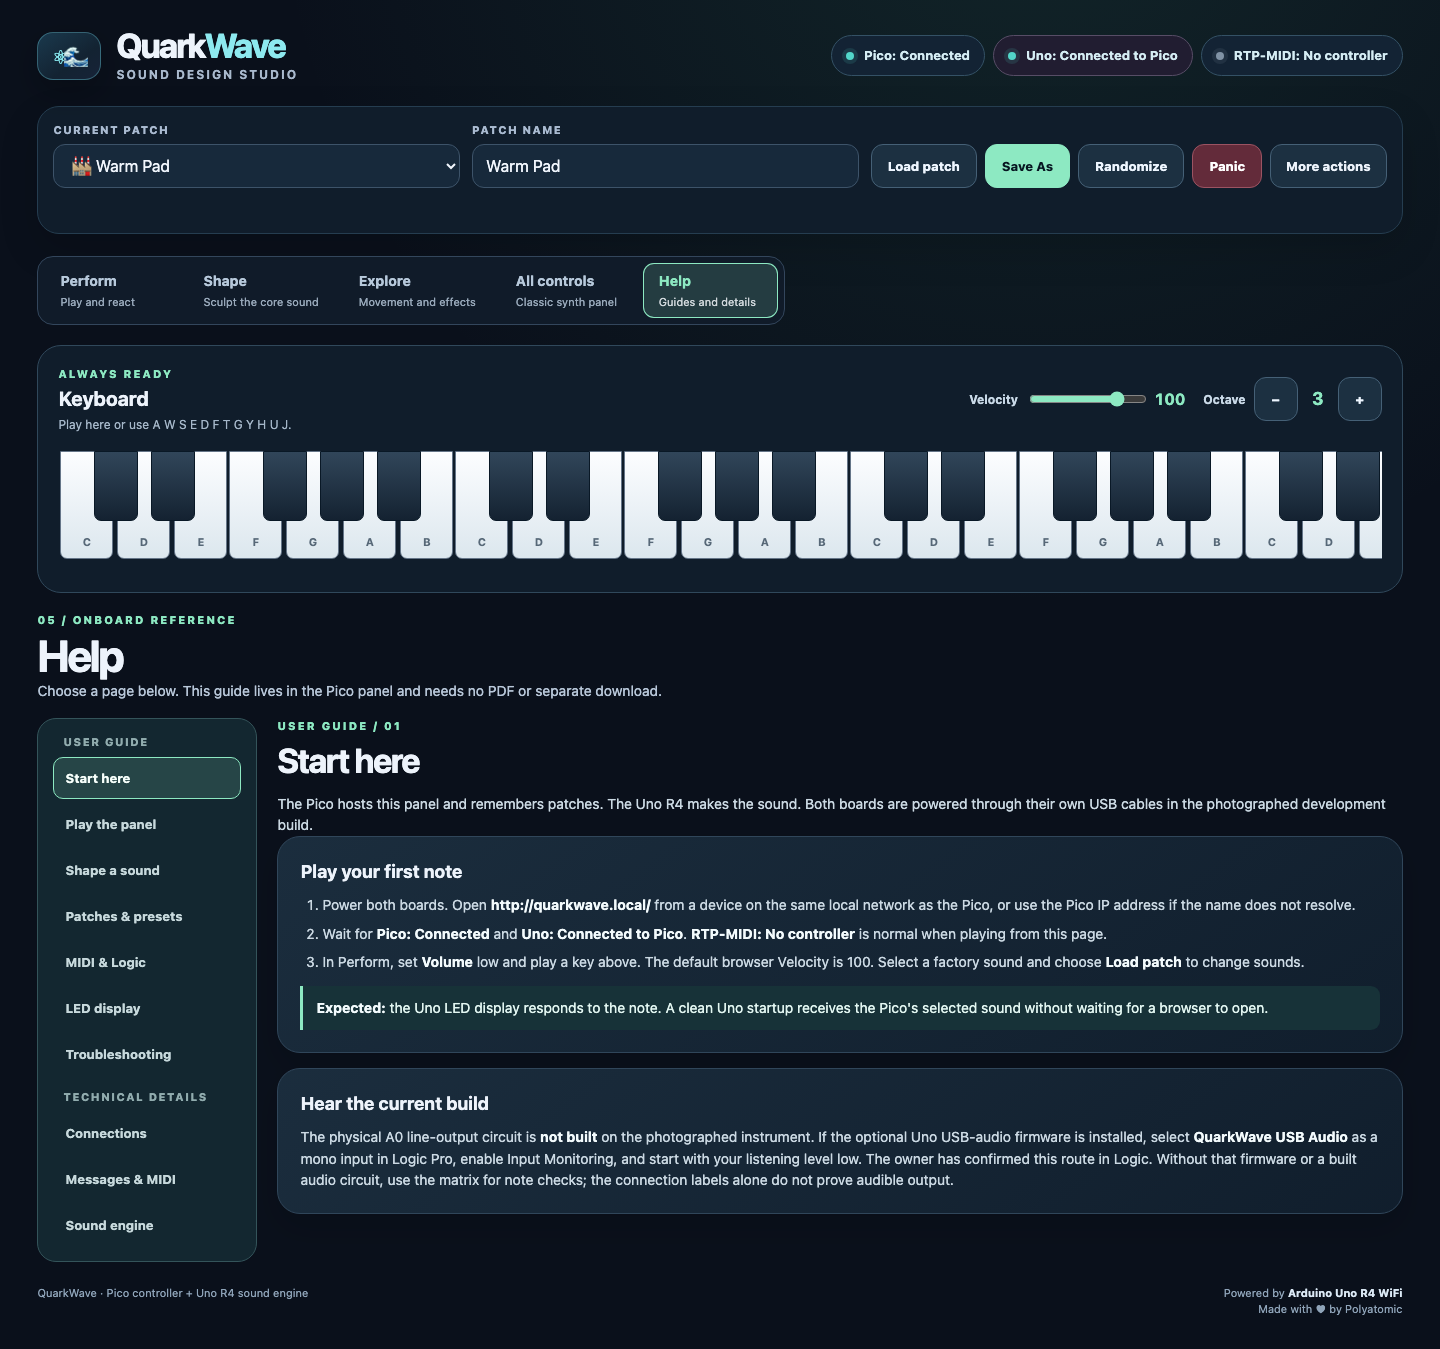
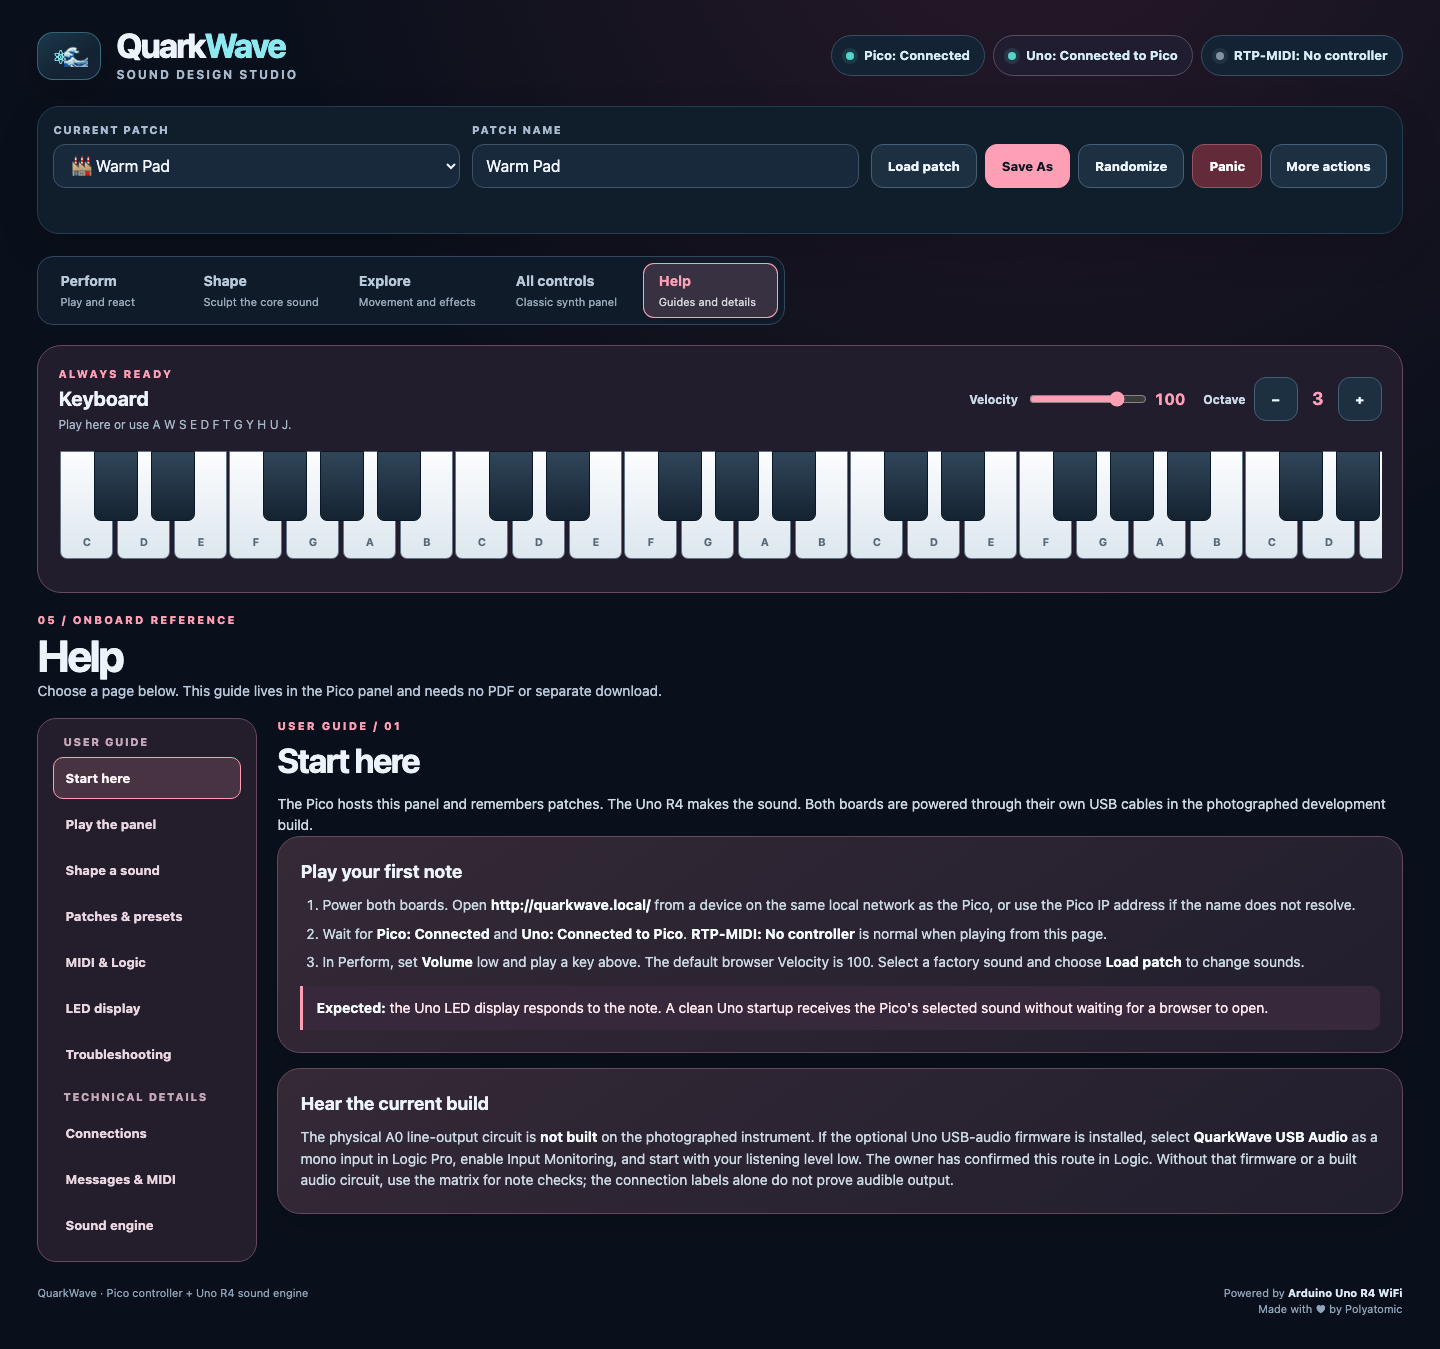
Give onboard Help a distinct rose theme

diff --git a/QuarkWave MIDI/QuarkWave_UI_MIDI/QuarkWave_UI.h b/QuarkWave MIDI/QuarkWave_UI_MIDI/QuarkWave_UI.h
@@ -18,7 +18,7 @@ static const char INDEX_HTML[] PROGMEM = u8R"HTML(
   body[data-view="shape"]{--accent:#f4bd79;--accent-soft:rgba(244,189,121,.17);--glow:rgba(182,111,39,.16)}
   body[data-view="explore"]{--accent:#c49afa;--accent-soft:rgba(196,154,250,.18);--glow:rgba(130,74,185,.17)}
   body[data-view="all"]{--accent:#8de9c2;--accent-soft:rgba(141,233,194,.16);--glow:rgba(62,161,123,.15)}
-  body[data-view="help"]{--accent:#8de9c2;--accent-soft:rgba(141,233,194,.16);--glow:rgba(62,161,123,.15)}
+  body[data-view="help"]{--accent:#ff9fb5;--accent-soft:rgba(255,159,181,.17);--glow:rgba(178,63,105,.19)}
   button,input,select{font:inherit}
   button{cursor:pointer}
   button:disabled{cursor:not-allowed;opacity:.48}
@@ -81,8 +81,8 @@ static const char INDEX_HTML[] PROGMEM = u8R"HTML(
   .all-explore-grid{grid-template-columns:repeat(3,minmax(0,1fr))}
   .all-section{margin-top:25px}.all-section h2{margin:0 0 13px;font-size:23px;letter-spacing:-.035em}
   .help-links{display:flex;flex-wrap:wrap;gap:9px;margin:0 0 19px}
-  .help-links a{min-height:44px;display:inline-flex;align-items:center;padding:0 15px;border:1px solid #4d6e70;border-radius:12px;background:#1a3338;color:#d5f7ea;font-size:13px;font-weight:750;text-decoration:none}
-  .help-links a:hover{border-color:var(--accent);background:#23444a}
+  .help-links a{min-height:44px;display:inline-flex;align-items:center;padding:0 15px;border:1px solid #765367;border-radius:12px;background:#322330;color:#ffe3e9;font-size:13px;font-weight:750;text-decoration:none}
+  .help-links a:hover{border-color:var(--accent);background:#493044}
   .help-section{margin-top:27px;scroll-margin-top:20px}
   .help-section h2{margin:0 0 6px;font-size:25px;letter-spacing:-.04em}
   .help-section>p{margin:0 0 15px;color:#b7c9d5;font-size:14px}
@@ -92,21 +92,21 @@ static const char INDEX_HTML[] PROGMEM = u8R"HTML(
   .help-card p{margin:8px 0 0}.help-card ol,.help-card ul{margin:0;padding-left:22px}.help-card li+li{margin-top:6px}
   .help-card strong,.help-card dt{color:#f2f8fd}.help-card dl{margin:0}.help-card dt{font-size:13px;font-weight:800}.help-card dd{margin:0 0 10px}
   .help-wide{grid-column:1/-1}
-  .help-flow{display:flex;align-items:center;flex-wrap:wrap;gap:8px;margin:12px 0;color:#d5f7ea;font-size:13px;font-weight:750}
-  .help-flow span{padding:8px 11px;border:1px solid #486b70;border-radius:10px;background:#142c35}
+  .help-flow{display:flex;align-items:center;flex-wrap:wrap;gap:8px;margin:12px 0;color:#ffe3e9;font-size:13px;font-weight:750}
+  .help-flow span{padding:8px 11px;border:1px solid #765367;border-radius:10px;background:#2d2230}
   .help-flow b{color:var(--accent)}
   .help-layout{display:grid;grid-template-columns:220px minmax(0,1fr);align-items:start;gap:20px}
   .help-content{min-width:0}
-  .help-nav{position:sticky;top:16px;display:grid;gap:4px;padding:15px;border:1px solid #34545a;border-radius:19px;background:#132730}
-  .help-nav-label{margin:10px 10px 3px;color:#91acae;font-size:11px;font-weight:800;letter-spacing:.14em;text-transform:uppercase}
+  .help-nav{position:sticky;top:16px;display:grid;gap:4px;padding:15px;border:1px solid #68485d;border-radius:19px;background:#241d2b}
+  .help-nav-label{margin:10px 10px 3px;color:#c6a9b9;font-size:11px;font-weight:800;letter-spacing:.14em;text-transform:uppercase}
   .help-nav-label:first-child{margin-top:0}
-  .help-nav button{min-height:42px;padding:9px 11px;border:1px solid transparent;border-radius:10px;background:transparent;color:#c7d9dc;text-align:left;font-size:13px;font-weight:700}
-  .help-nav button:hover{background:#204047}
-  .help-nav button[aria-current="page"]{border-color:var(--accent);background:var(--accent-soft);color:#f7fffb}
+  .help-nav button{min-height:42px;padding:9px 11px;border:1px solid transparent;border-radius:10px;background:transparent;color:#ead7e2;text-align:left;font-size:13px;font-weight:700}
+  .help-nav button:hover{background:#443044}
+  .help-nav button[aria-current="page"]{border-color:var(--accent);background:var(--accent-soft);color:#fff6f9}
   .help-page{min-width:0}
   .help-page h2{margin:2px 0 7px;font-size:clamp(25px,2.5vw,34px);letter-spacing:-.045em}
   .help-page h3{margin:0 0 9px;font-size:18px}
-  .help-page-lead{margin:0 0 17px;color:#b8ced1;font-size:14px}
+  .help-page-lead{margin:0 0 17px;color:#d4bbc9;font-size:14px}
   .help-page .card{margin-bottom:15px}
   .help-page .card:last-child{margin-bottom:0}
   .help-page p,.help-page li,.help-page td,.help-page th{font-size:14px;line-height:1.55}
@@ -114,18 +114,20 @@ static const char INDEX_HTML[] PROGMEM = u8R"HTML(
   .help-page ol,.help-page ul{margin:8px 0 0;padding-left:22px;color:#cbd9e3}
   .help-page li+li{margin-top:7px}
   .help-page strong{color:#f3fbfd}
-  .help-page .help-result{margin-top:13px;padding:11px 13px;border-left:3px solid var(--accent);border-radius:0 9px 9px 0;background:#173238;color:#e2f6f1}
+  .help-page .help-result{margin-top:13px;padding:11px 13px;border-left:3px solid var(--accent);border-radius:0 9px 9px 0;background:#38283b;color:#ffe8ef}
   .help-table-wrap{width:100%;overflow-x:auto;margin-top:11px}
   .help-page table{border-collapse:collapse;width:100%;min-width:480px;text-align:left}
   .help-page th,.help-page td{padding:9px 11px;border-bottom:1px solid #405365;vertical-align:top}
-  .help-page th{color:#b9f2db;font-weight:800}
-  .help-page code{padding:2px 5px;border-radius:5px;background:#0d202b;color:#b9f2db;font-size:.92em;overflow-wrap:anywhere}
-  .help-page pre{overflow-x:auto;padding:13px;border:1px solid #405365;border-radius:11px;background:#0d202b}
+  .help-page th{color:#ffc6d4;font-weight:800}
+  .help-page code{padding:2px 5px;border-radius:5px;background:#231c2b;color:#ffc6d4;font-size:.92em;overflow-wrap:anywhere}
+  .help-page pre{overflow-x:auto;padding:13px;border:1px solid #68485d;border-radius:11px;background:#231c2b}
   .help-page pre code{padding:0;white-space:pre}
   .help-note{color:#a9bfca!important;font-size:12px!important}
   .card{min-width:0;padding:22px;border:1px solid #30465a;border-radius:23px;background:linear-gradient(145deg,rgba(28,46,63,.96),rgba(17,30,45,.97));box-shadow:0 14px 32px rgba(0,0,0,.12)}
   body[data-view="shape"] .card{background:linear-gradient(145deg,#2b292a,#1d222b);border-color:#58483e}
   body[data-view="explore"] .card{background:linear-gradient(145deg,#292640,#1a1e33);border-color:#53466d}
+  body[data-view="help"] .card{background:linear-gradient(145deg,#352936,#211e2d);border-color:#68485d}
+  body[data-view="help"] .keyboard-dock{background:#211d2c;border-color:#68485d}
   .card--hero{min-height:265px;display:flex;flex-direction:column;justify-content:space-between;overflow:hidden;position:relative;background:radial-gradient(circle at 68% 45%,var(--accent-soft),transparent 36%),linear-gradient(125deg,#14283c,#0e1b2c 72%)}
   .hero-copy{position:relative;z-index:1;max-width:480px}
   .hero-copy h2{margin:8px 0 10px;font-size:clamp(31px,3.1vw,50px);line-height:1.03;letter-spacing:-.06em}

diff --git a/QuarkWave MIDI/docs/README.md b/QuarkWave MIDI/docs/README.md
@@ -28,9 +28,9 @@ The two sketches and embedded browser page are the source of truth for these pag
 | --- | --- | --- |
[4 lines of base64/hex data omitted]
 
-The connected controller identified over USB on 2026-09-23 is a **Pico W (RP2040, 2 MB flash)**. Its deployed build uses a 1 MB LittleFS region to match the existing patch storage. The Uno identified as **Arduino UNO R4 WiFi**. Both uploads verified; an earlier live panel check reported a connected Pico and Uno with the existing “Test Pluck” user patch. The current source shortens the normal Uno label to **Uno: Connected to Pico**; it has not yet been uploaded for a new live check. An automated browser pass exercised 50 control paths and 41 pointer keys, plus all 12 computer keys at three velocities. The Pico reported changes and the Uno handshake was initially connected, but the Uno does not acknowledge each sound command. A Pico return-message parser fix resolved the reproduced explicit-sync failure in repeated two-board tests. A temporary Uno diagnostic confirmed browser Note On, envelope movement, and a finite pre-DAC signal on one patch; audible output through the proposed physical A0 circuit and per-control sound response remain unverified. The latest Uno LED-status source also runs in the [USB-audio experiment](../experiments/usb-audio/README.md): the Pico link stayed connected during recordings, the owner confirmed the matrix responds to notes, and the older audio-only image worked in Logic Pro. The new composite image also passed a simultaneous Mac USB MIDI/audio test; its Logic workflow still needs a user check. Each new status pixel has not been individually accepted. See the [hardware test log](hardware-test-log.md).
+The connected controller identified over USB on 2026-09-23 is a **Pico W (RP2040, 2 MB flash)**. Its deployed build uses a 1 MB LittleFS region to match the existing patch storage. The Uno identified as **Arduino UNO R4 WiFi**. Both uploads verified; an earlier live panel check reported a connected Pico and Uno with the existing “Test Pluck” user patch. The deployed panel uses **Uno: Connected to Pico**; a live post-upload check reported that state with no sync failure and preserved user slot 3. Help now has its own rose palette, and its simulated screenshot was refreshed. An automated browser pass exercised 50 control paths and 41 pointer keys, plus all 12 computer keys at three velocities. The Pico reported changes and the Uno handshake was initially connected, but the Uno does not acknowledge each sound command. A Pico return-message parser fix resolved the reproduced explicit-sync failure in repeated two-board tests. A temporary Uno diagnostic confirmed browser Note On, envelope movement, and a finite pre-DAC signal on one patch; audible output through the proposed physical A0 circuit and per-control sound response remain unverified. The latest Uno LED-status source also runs in the [USB-audio experiment](../experiments/usb-audio/README.md): the Pico link stayed connected during recordings, the owner confirmed the matrix responds to notes, and the older audio-only image worked in Logic Pro. The new composite image also passed a simultaneous Mac USB MIDI/audio test; its Logic workflow still needs a user check. Each new status pixel has not been individually accepted. See the [hardware test log](hardware-test-log.md).
 
 The older sketches under `../QuarkWave/` are outside this documentation baseline. The `secrets.h` files contain local Wi-Fi settings and are deliberately excluded.
 

diff --git a/QuarkWave MIDI/docs/hardware-test-log.md b/QuarkWave MIDI/docs/hardware-test-log.md
@@ -194,3 +194,7 @@ For the audio-rate checks, the optional build counted writes to the Uno DAC regi
 The demanding patch used four USB MIDI notes (48, 55, 60, 64), three-way unison, chorus, delay, bitcrush, tremolo, drive, and wavefold at high settings. A 20.02-second CoreAudio capture returned **441,344 samples** with nonzero audio during held notes and no full-scale clipped samples. During a 15,000-packet steady interval of that capture, the Uno made **319,824 DAC writes**, equivalent to **21,321.6 writes/s**. The ring reported **10,959 new underruns**, 0 overruns, and **240 scheduler slips**. The USB packetizer fills missing samples with zeros, so the host's nominal capture length masks this synth-rate failure. In a 12-second held-note section, 3.9% of recorded samples were exactly zero and the longest zero run was 39 samples (1.77 ms); a simpler held note in the same interval had 0.05% zero samples and no run longer than one sample. The captured signal should be listened to before assessing audible severity. USB servicing accounted for about 1.4% of elapsed time in a related five-second stress interval, so slower polling alone cannot recover the missing work. [Performance gap](documentation-gaps.md), [USB audio implementation](../experiments/usb-audio/UsbAudioCapture.h).
 
 Short four-voice tiers showed the cause is cumulative: unison alone, chorus/delay, bitcrush alone, tremolo alone, and drive/fold alone each stayed near the 22.05 kHz target apart from brief note-on transients. Bitcrush plus drive/fold dropped to about **21.15 kHz** before optimization. The current sound engine reuses a bitcrush quantization result during a sample-hold period and skips interpolation at full effect mix; this preserves the steady mathematical output while reducing work. It improved the combined insert-effects tier from roughly **20.94 to 21.3 kHz**, but did not resolve it. A temporary `-O2` composite build was slower in the same tier and was replaced with the standard build. After every stress run, explicit Pico sync returned `connected: true`, `mode: pico`, and `syncFailed: false`; the owner's live Pico patch remains selected. The composite build has not yet had a hands-on Logic Pro, Windows, USB-disconnect, USB-clock, or physical A0 output check.
+
+## Help view color and Pico deployment — 2026-09-23
+
+The Help view now uses a rose accent and plum navigation/cards, distinct from the All controls mint palette. Its source-rendered connected-state screenshot was regenerated. The Pico W sketch compiled with the existing 1 MB LittleFS layout. Before upload, a full 2 MB flash backup was saved at `/private/tmp/quarkwave-pico-pre-help-theme.bin`; the UF2 program ended at `0x10092700`, below the filesystem boundary at `0x10100000`. Picotool uploaded and verified the image, then rebooted the Pico. The live page returned HTTP 200 and contained the new Help palette. WebSocket reported current user slot 3 and `connected: true`, `mode: pico`, `syncFailed: false` for the Uno. Visual appearance was reviewed in a 1440 px source-rendered capture; an owner check on the actual browser remains useful.
